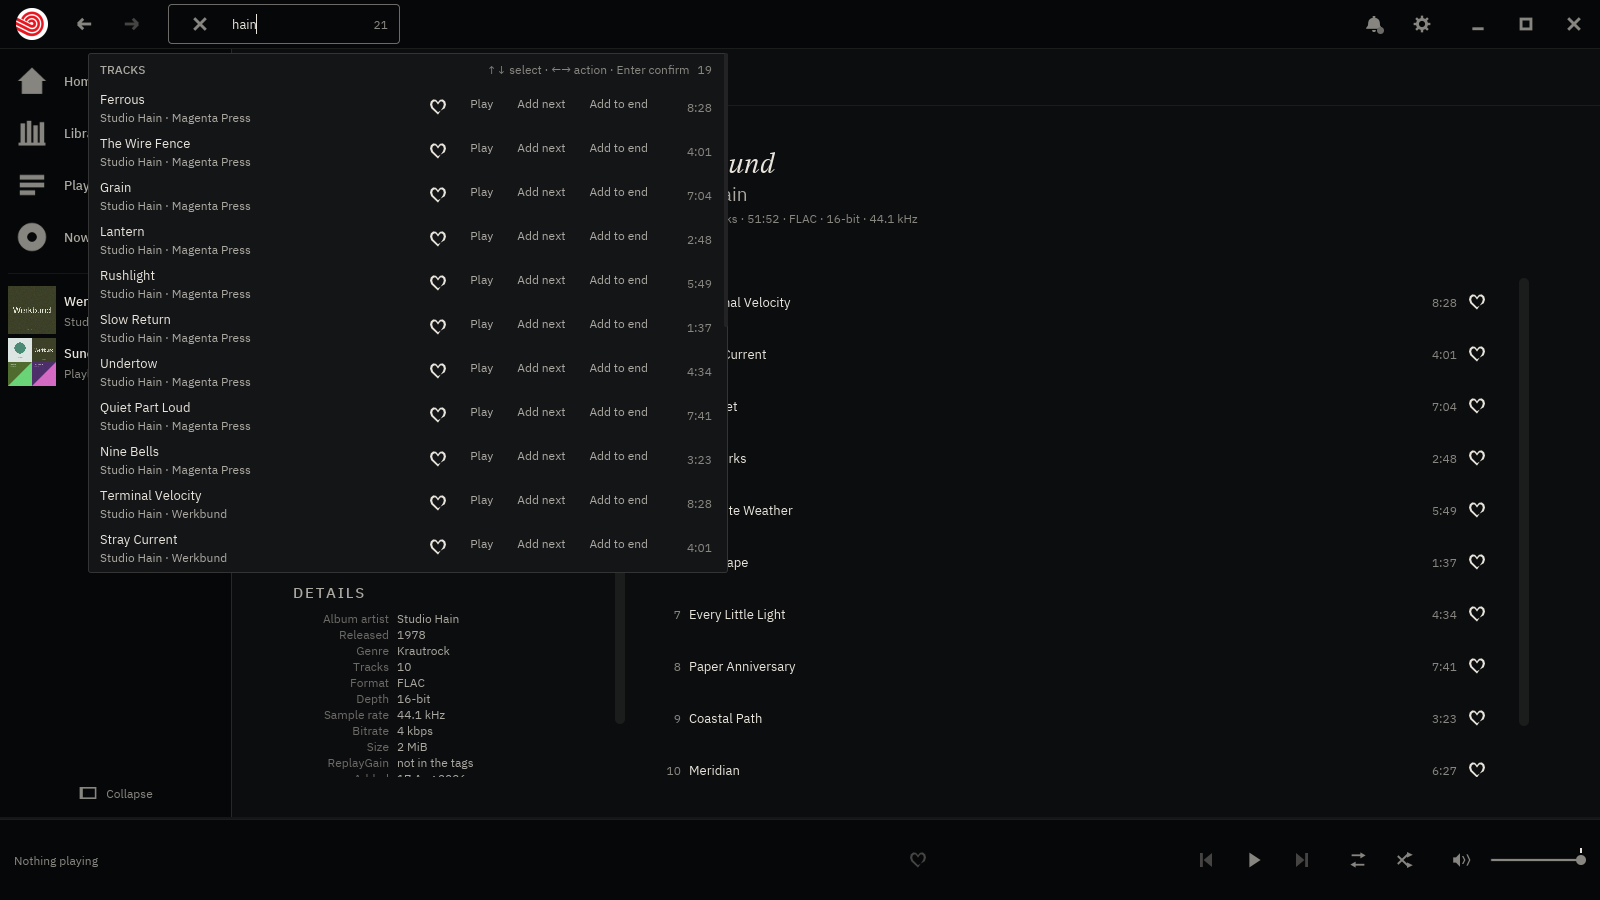
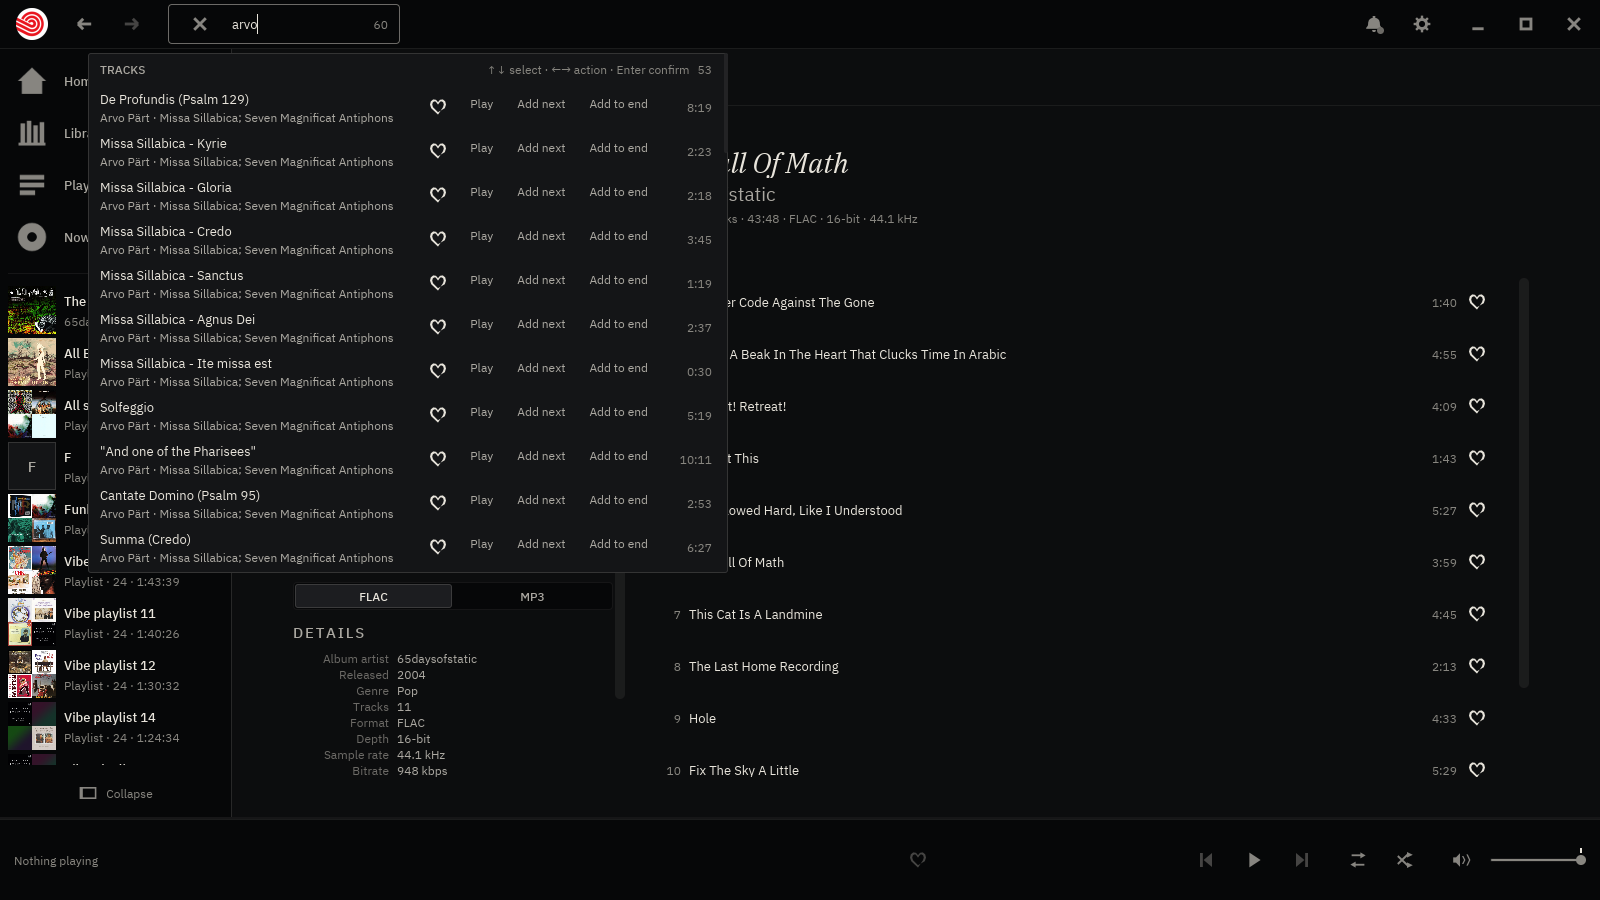
The screenshots are a real library now
"It doesn't seem like you've used my real library or at least real music." No,
and a generated wall reads as generated however good its sleeves get — which
is what the previous pass proved by making them as good as they could be.

`REAL=1` photographs his own collection: 4 870 tracks, real sleeves, A Tribe
Called Quest and ABBA and Arvo Pärt on the wall, 65daysofstatic in the jewel
case, 53 hits for "arvo" in search. Nothing is written to his data — the
index, the analysis store, the art cache and the playlists are copied into the
run's scratch XDG, and his config is read for its music_dirs. The copies also
make it fast and faithful at once: no scan, no listening pass, every sleeve
already rendered.

The smart-playlist frame is the one that needed the analysis store, and it is
the frame that earns the flag. A rising line over his own music, the dots
tracking it, and the row words climbing quiet · slow · dark to loud · fast ·
noisy down a list of Camel, Midlake, Steeleye Span and Frank Zappa. That is the
feature's own claim, made in public, on records a reader can check.

What real mode had to learn, all of it read off a frame rather than reasoned:
his wall hangs five tiles to a row rather than four, so `park` was landing on
one and every frame came back with a veil open over Frank Zappa; `year`
grouping opens on a shelf headed NO YEAR because real rips are not all tagged,
where the fixture's every record has one; `hain` finds nothing outside the
[…]

diff --git a/README.md b/README.md
@@ -59,14 +59,19 @@ worth looking at, without any of their clouds.
 | ![Now playing](docs/screenshots/now-playing.png) | ![A playlist](docs/screenshots/playlist.png) |
 | **Now playing** — cover, rotating jewel case, or a spectrum-led room with no album object. | **A playlist** — thirty-five songs off four records, and one `.m3u8` on disk. |
 | ![A record's page](docs/screenshots/album.png) | ![Search](docs/screenshots/search.png) |
-| **A record** — the sleeve at size, the run in play order, and what the file actually is. | **Search** — app-wide, from any place, reaching tracks as well as records. |
+| **A record** — the sleeve at size, the run in play order, and both editions the library merged. | **Search** — app-wide, from any place, reaching tracks as well as records. |
 
 ![A smart playlist: draw how it should move](docs/screenshots/smart-playlist.png)
 
 **A smart playlist.** Draw how the music should move from the first song to
 the last and baz fills it from your own collection, using what the songs
-actually sound like rather than what their tags say. Every track is analysed on
-your own machine, and none of your audio leaves it.
+actually sound like rather than what their tags say. Read the words beside the
+rows down the list: *quiet · slow · dark* at the top, *loud · fast · noisy* at
+the bottom. Every track is analysed on your own machine, and none of your
+audio leaves it.
+
+> These are real screenshots of a real 4 870-track library, not a mock-up.
+> `docs/screenshots/capture.sh` takes them from the shipping binary.
 
 ![Home](docs/screenshots/home.png)
 
